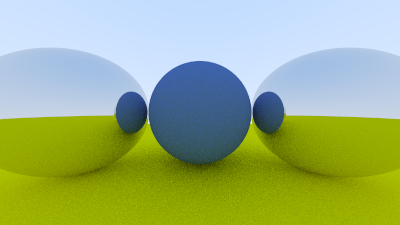
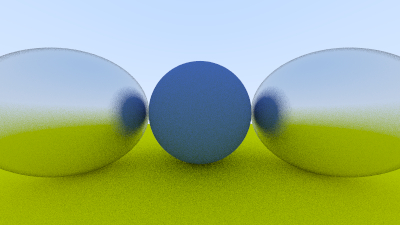
added fuzz in metal material

diff --git a/src/hittable.h b/src/hittable.h
@@ -49,35 +49,33 @@ class metal : public material {
     public:
         __host__ __device__ metal() : material(Metal) {}
 
-        __host__ __device__ metal(const color& albedo) : albedo(albedo), material(Metal) {}
+        __host__ __device__ metal(const color& albedo, float fuzz) : albedo(albedo), material(Metal)
+                                , fuzz(fuzz < 1 ? fuzz : 1) {}
 
-        __device__ bool scatter_impl(const ray& r_in, const hit_record& rec, color& attenuation, ray& scattered)
+        __device__ bool scatter_impl(const ray& r_in, const hit_record& rec, color& attenuation, 
+                                     ray& scattered, curandState* state)
         const {
             vec3 reflected = reflect(r_in.direction(), rec.normal);
+            reflected = unit_vector(reflected) + (fuzz * random_unit_vector(state));
             scattered = ray(rec.p, reflected);
             attenuation = albedo;
-            return true;
+            return (dot(scattered.direction(), rec.normal) > 0);
         }
 
         __host__ material* device_copy_impl() const {
-            // Allocate memory for a new metal material on device
             metal* d_metal_copy;
             cudaMalloc(&d_metal_copy, sizeof(metal));
             
-            // Create a temporary metal with the same properties
-            // Make sure to set the right type in the base material class
-            metal temp_metal(albedo);
-            temp_metal.type = material::Metal;  // Ensure the type is set correctly
-            
-            // Copy the temporary metal to device memory
+            metal temp_metal(albedo, fuzz);
+
             cudaMemcpy(d_metal_copy, &temp_metal, sizeof(metal), cudaMemcpyHostToDevice);
             
-            // Return as a material pointer (base class)
             return d_metal_copy;
         }
 
     private:
         color albedo;
+        float fuzz;
 };
 
 
@@ -151,17 +149,13 @@ class sphere : public hittable {
             }
 
             __host__ sphere* device_copy_impl() const {
-                // Allocate memory for a new sphere on device
                 sphere* d_sphere_copy;
                 cudaMalloc(&d_sphere_copy, sizeof(sphere));
                 
-                // Create a copy of the material on device
                 material* d_mat_copy = (material*)mat->device_copy();
                 
-                // Create a temporary sphere with the device material pointer
                 sphere temp_sphere(center, radius, d_mat_copy);
                 
-                // Copy the temporary sphere to device memory
                 cudaMemcpy(d_sphere_copy, &temp_sphere, sizeof(sphere), cudaMemcpyHostToDevice);
                 
                 return d_sphere_copy;
@@ -193,17 +187,13 @@ class lambertian : public material {
         }
 
         __host__ material* device_copy_impl() const {
-            // Allocate memory for a new lambertian material on device
             lambertian* d_lambertian_copy;
             cudaMalloc(&d_lambertian_copy, sizeof(lambertian));
             
-            // Create a temporary lambertian with the same properties
             lambertian temp_lambertian(albedo);
             
-            // Copy the temporary lambertian to device memory
             cudaMemcpy(d_lambertian_copy, &temp_lambertian, sizeof(lambertian), cudaMemcpyHostToDevice);
             
-            // Return as a material pointer (base class)
             return d_lambertian_copy;
         }
     
@@ -254,10 +244,9 @@ __device__ bool material::scatter(
     if (type == Lambertian) {
         const lambertian* lam = reinterpret_cast<const lambertian*>(this); 
         return lam->scatter_impl(r_in, rec, attenuation, scattered, state);
-    }
-    if (type == Metal) {
+    } else if (type == Metal) {
         const metal* met = reinterpret_cast<const metal*>(this);
-        return met->scatter_impl(r_in, rec, attenuation, scattered);
+        return met->scatter_impl(r_in, rec, attenuation, scattered, state);
     }
 
     return false;
@@ -320,26 +309,21 @@ class host_hittable_list {
         }
 
         device_hittable_list* create_device_copy() {
-            // 1. First, create device copies of each sphere
             sphere** device_spheres = new sphere*[count];
             for (int i = 0; i < count; i++) {
                 device_spheres[i] = (sphere*) objects[i]->device_copy();
             }
             
-            // 2. Allocate device memory for the array of sphere pointers
             sphere** d_objects;
             CHECK_CUDA_ERROR(cudaMalloc(&d_objects, count * sizeof(sphere*)));
             
-            // 3. Copy the array of device sphere pointers to device memory
             CHECK_CUDA_ERROR(cudaMemcpy(d_objects, device_spheres, count * sizeof(sphere*), cudaMemcpyHostToDevice));
             delete[] device_spheres;  // Free temporary array
             
-            // 4. Create the world object with device pointers
             device_hittable_list h_world(hittable::WORLD);
-            h_world.objects = d_objects;  // Use device pointer here!
+            h_world.objects = d_objects;
             h_world.count = count;
             
-            // 5. Copy the world object to device
             device_hittable_list* d_world;
             CHECK_CUDA_ERROR(cudaMalloc(&d_world, sizeof(device_hittable_list)));
             CHECK_CUDA_ERROR(cudaMemcpy(d_world, &h_world, sizeof(device_hittable_list), cudaMemcpyHostToDevice));
